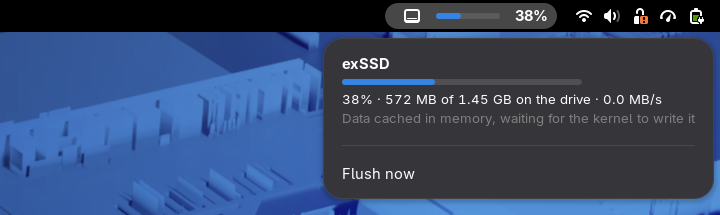
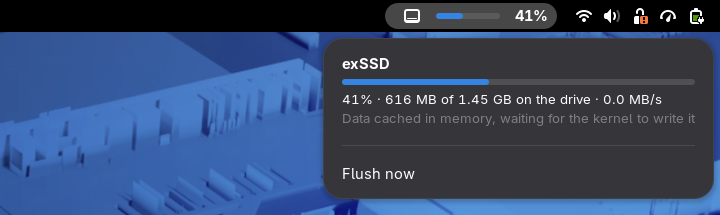
Stretch the menu progress bar to the row width; simplify LICENSE
- The menu bar now fills the whole row instead of a fixed 240 px; the
  fill is computed from the track's allocated width and re-applied from
  an idle callback when the row is resized (never during allocation).
- LICENSE: one plain copyright line per author, so the MIT text is
  detected by GitHub.
- Refresh the menu screenshot.

diff --git a/extension.js b/extension.js
@@ -107,7 +107,6 @@ const MAX_SHOWN_FRACTION = 0.99;
 
 // Fork addition: UI.
 const PANEL_BAR_WIDTH_PX = 64;
-const MENU_BAR_WIDTH_PX  = 240;
 const FADE_MS            = 200;
 // Duration of each bar movement: constant, so speed ∝ distance covered.
 const BAR_ANIM_MS        = 1_500;
@@ -289,30 +288,58 @@ function firstMountPoint(mountPointsVariant) {
     }
 }
 
-// Fork addition: a fixed-width track with an eased fill, used both in the
-// panel and in the menu. Fill width is an actor property (not CSS) so it can
-// be animated.
+// Fork addition: a progress track with an eased fill, used in the panel
+// (fixed width) and in the menu (stretched to the row). The fill width is an
+// actor property (not CSS) so it can be animated.
 class ProgressBar {
+    // widthPx: fixed track width, or null to fill the parent's width.
     constructor(widthPx, styleClass) {
-        this._widthPx = widthPx;
+        this._widthPx  = widthPx;
+        this._fraction = 0;
+        this._idleId   = 0;
+        this._allocId  = 0;
+        const fixed = widthPx !== null;
         this.actor = new St.Widget({
             style_class : `tup-bar ${styleClass}`,
-            style       : `width: ${widthPx}px;`,
-            // START: never stretched by the parent, so the track is exactly
-            // widthPx wide and a full fill reaches its end.
-            x_align     : Clutter.ActorAlign.START,
-            x_expand    : false,
+            style       : fixed ? `width: ${widthPx}px;` : null,
+            // A fixed track is never stretched by its parent, so a full fill
+            // always reaches its end.
+            x_align     : fixed ? Clutter.ActorAlign.START : Clutter.ActorAlign.FILL,
+            x_expand    : !fixed,
             y_align     : Clutter.ActorAlign.CENTER,
         });
         this._fill = new St.Widget({ style_class: 'tup-bar-fill', width: 0 });
         if (SHELL_MAJOR >= 47)
             this._fill.add_style_class_name('tup-accent');
         this.actor.add_child(this._fill);
+
+        // A stretched track only knows its width after layout. Resizing the
+        // fill during an allocation would queue a relayout inside it, so
+        // re-apply the fraction from an idle callback instead.
+        if (!fixed) {
+            this._allocId = this.actor.connect('notify::allocation', () => {
+                if (this._idleId) return;
+                this._idleId = GLib.idle_add(GLib.PRIORITY_DEFAULT_IDLE, () => {
+                    this._idleId = 0;
+                    const target = this._targetWidth(this._fraction);
+                    if (Math.abs(this._fill.width - target) > 1)
+                        this.setFraction(this._fraction, 0);
+                    return GLib.SOURCE_REMOVE;
+                });
+            });
+        }
+    }
+
+    _targetWidth(fraction) {
+        const track = this._widthPx ??
+            (this.actor.has_allocation() ? this.actor.allocation.get_width() : 0);
+        return Math.round(track * Math.max(0, Math.min(1, fraction)));
     }
 
     // Glide to the new value over `duration` ms; 0 jumps immediately.
     setFraction(fraction, duration) {
-        const width = Math.round(this._widthPx * Math.max(0, Math.min(1, fraction)));
+        this._fraction = fraction;
+        const width = this._targetWidth(fraction);
         if (duration <= 0) {
             this._fill.remove_all_transitions();
             this._fill.width = width;
@@ -333,6 +360,14 @@ class ProgressBar {
     }
 
     destroy() {
+        if (this._idleId) {
+            GLib.source_remove(this._idleId);
+            this._idleId = 0;
+        }
+        if (this._allocId) {
+            this.actor.disconnect(this._allocId);
+            this._allocId = 0;
+        }
         this._fill?.destroy();
         this.actor?.destroy();
         this._fill = null;
@@ -1383,7 +1418,7 @@ export default class TrueUsbProgressExtension extends Extension {
         item.track_hover = false;
         const box  = makeVBox({ style_class: 'tup-row', x_expand: true });
         const title  = new St.Label({ style_class: 'tup-row-title' });
-        const bar    = new ProgressBar(MENU_BAR_WIDTH_PX, 'tup-bar-menu');
+        const bar    = new ProgressBar(null, 'tup-bar-menu');
         const detail = new St.Label({ style_class: 'tup-row-detail' });
         const state  = new St.Label({ style_class: 'tup-row-state' });
         box.add_child(title);
